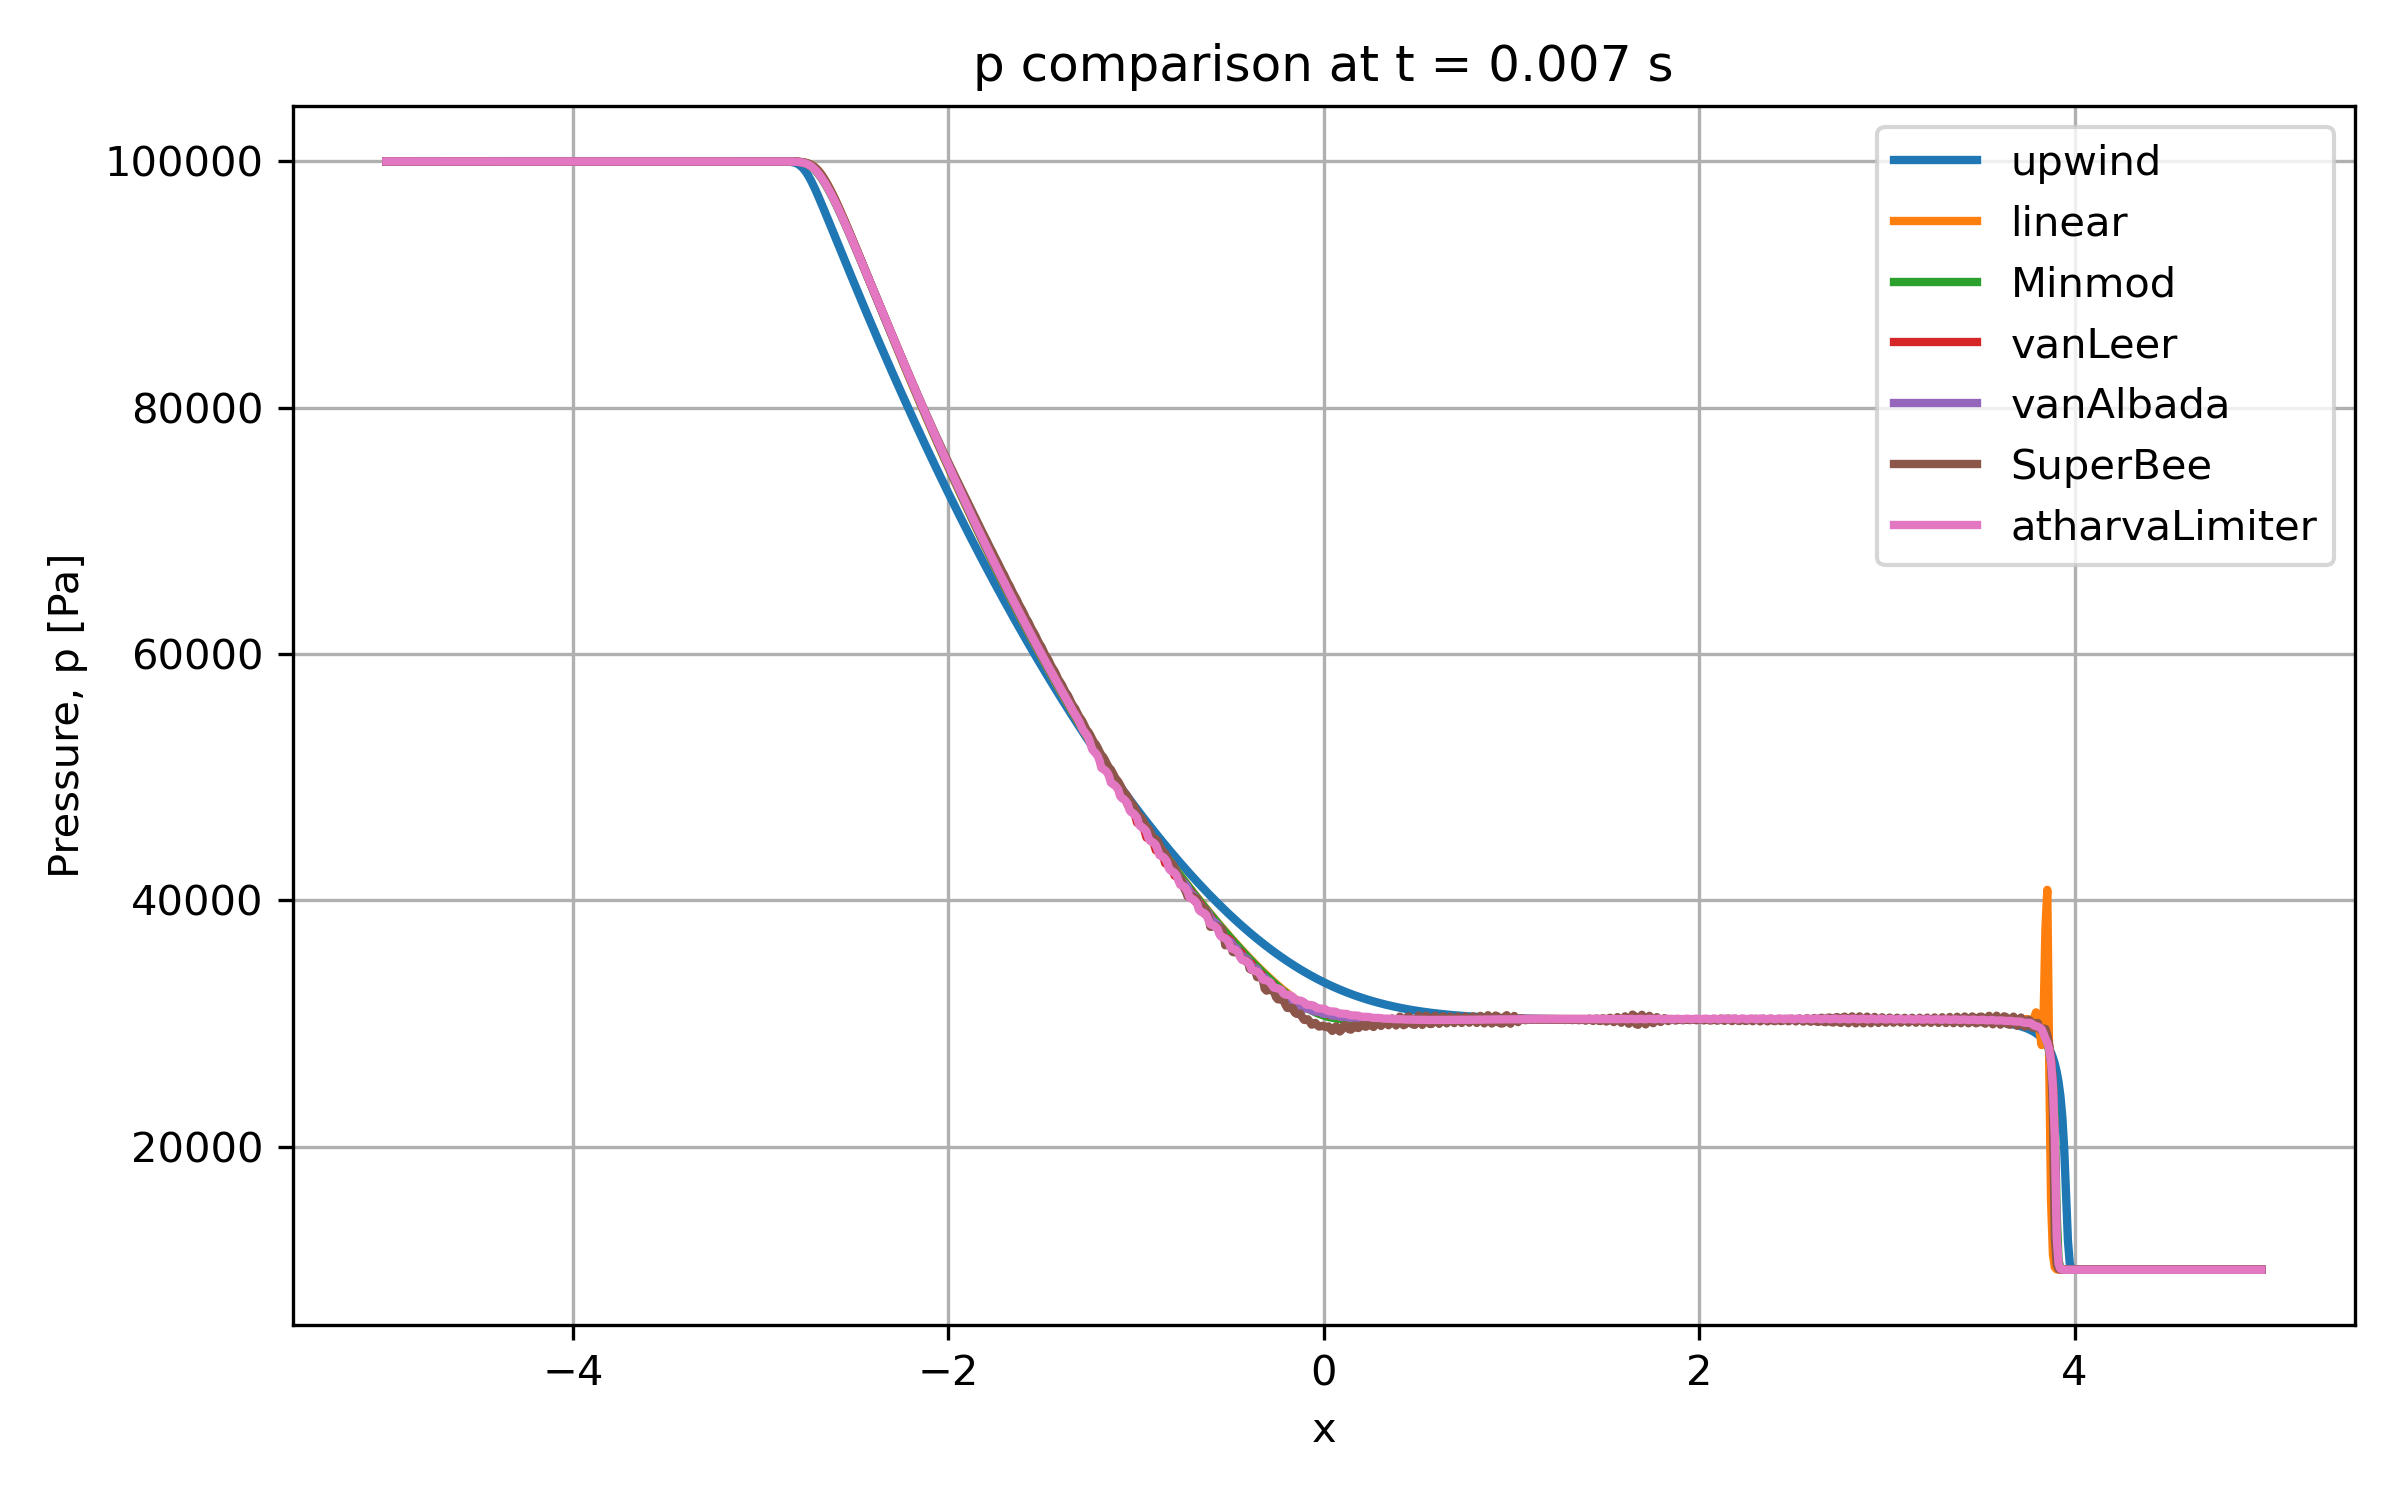
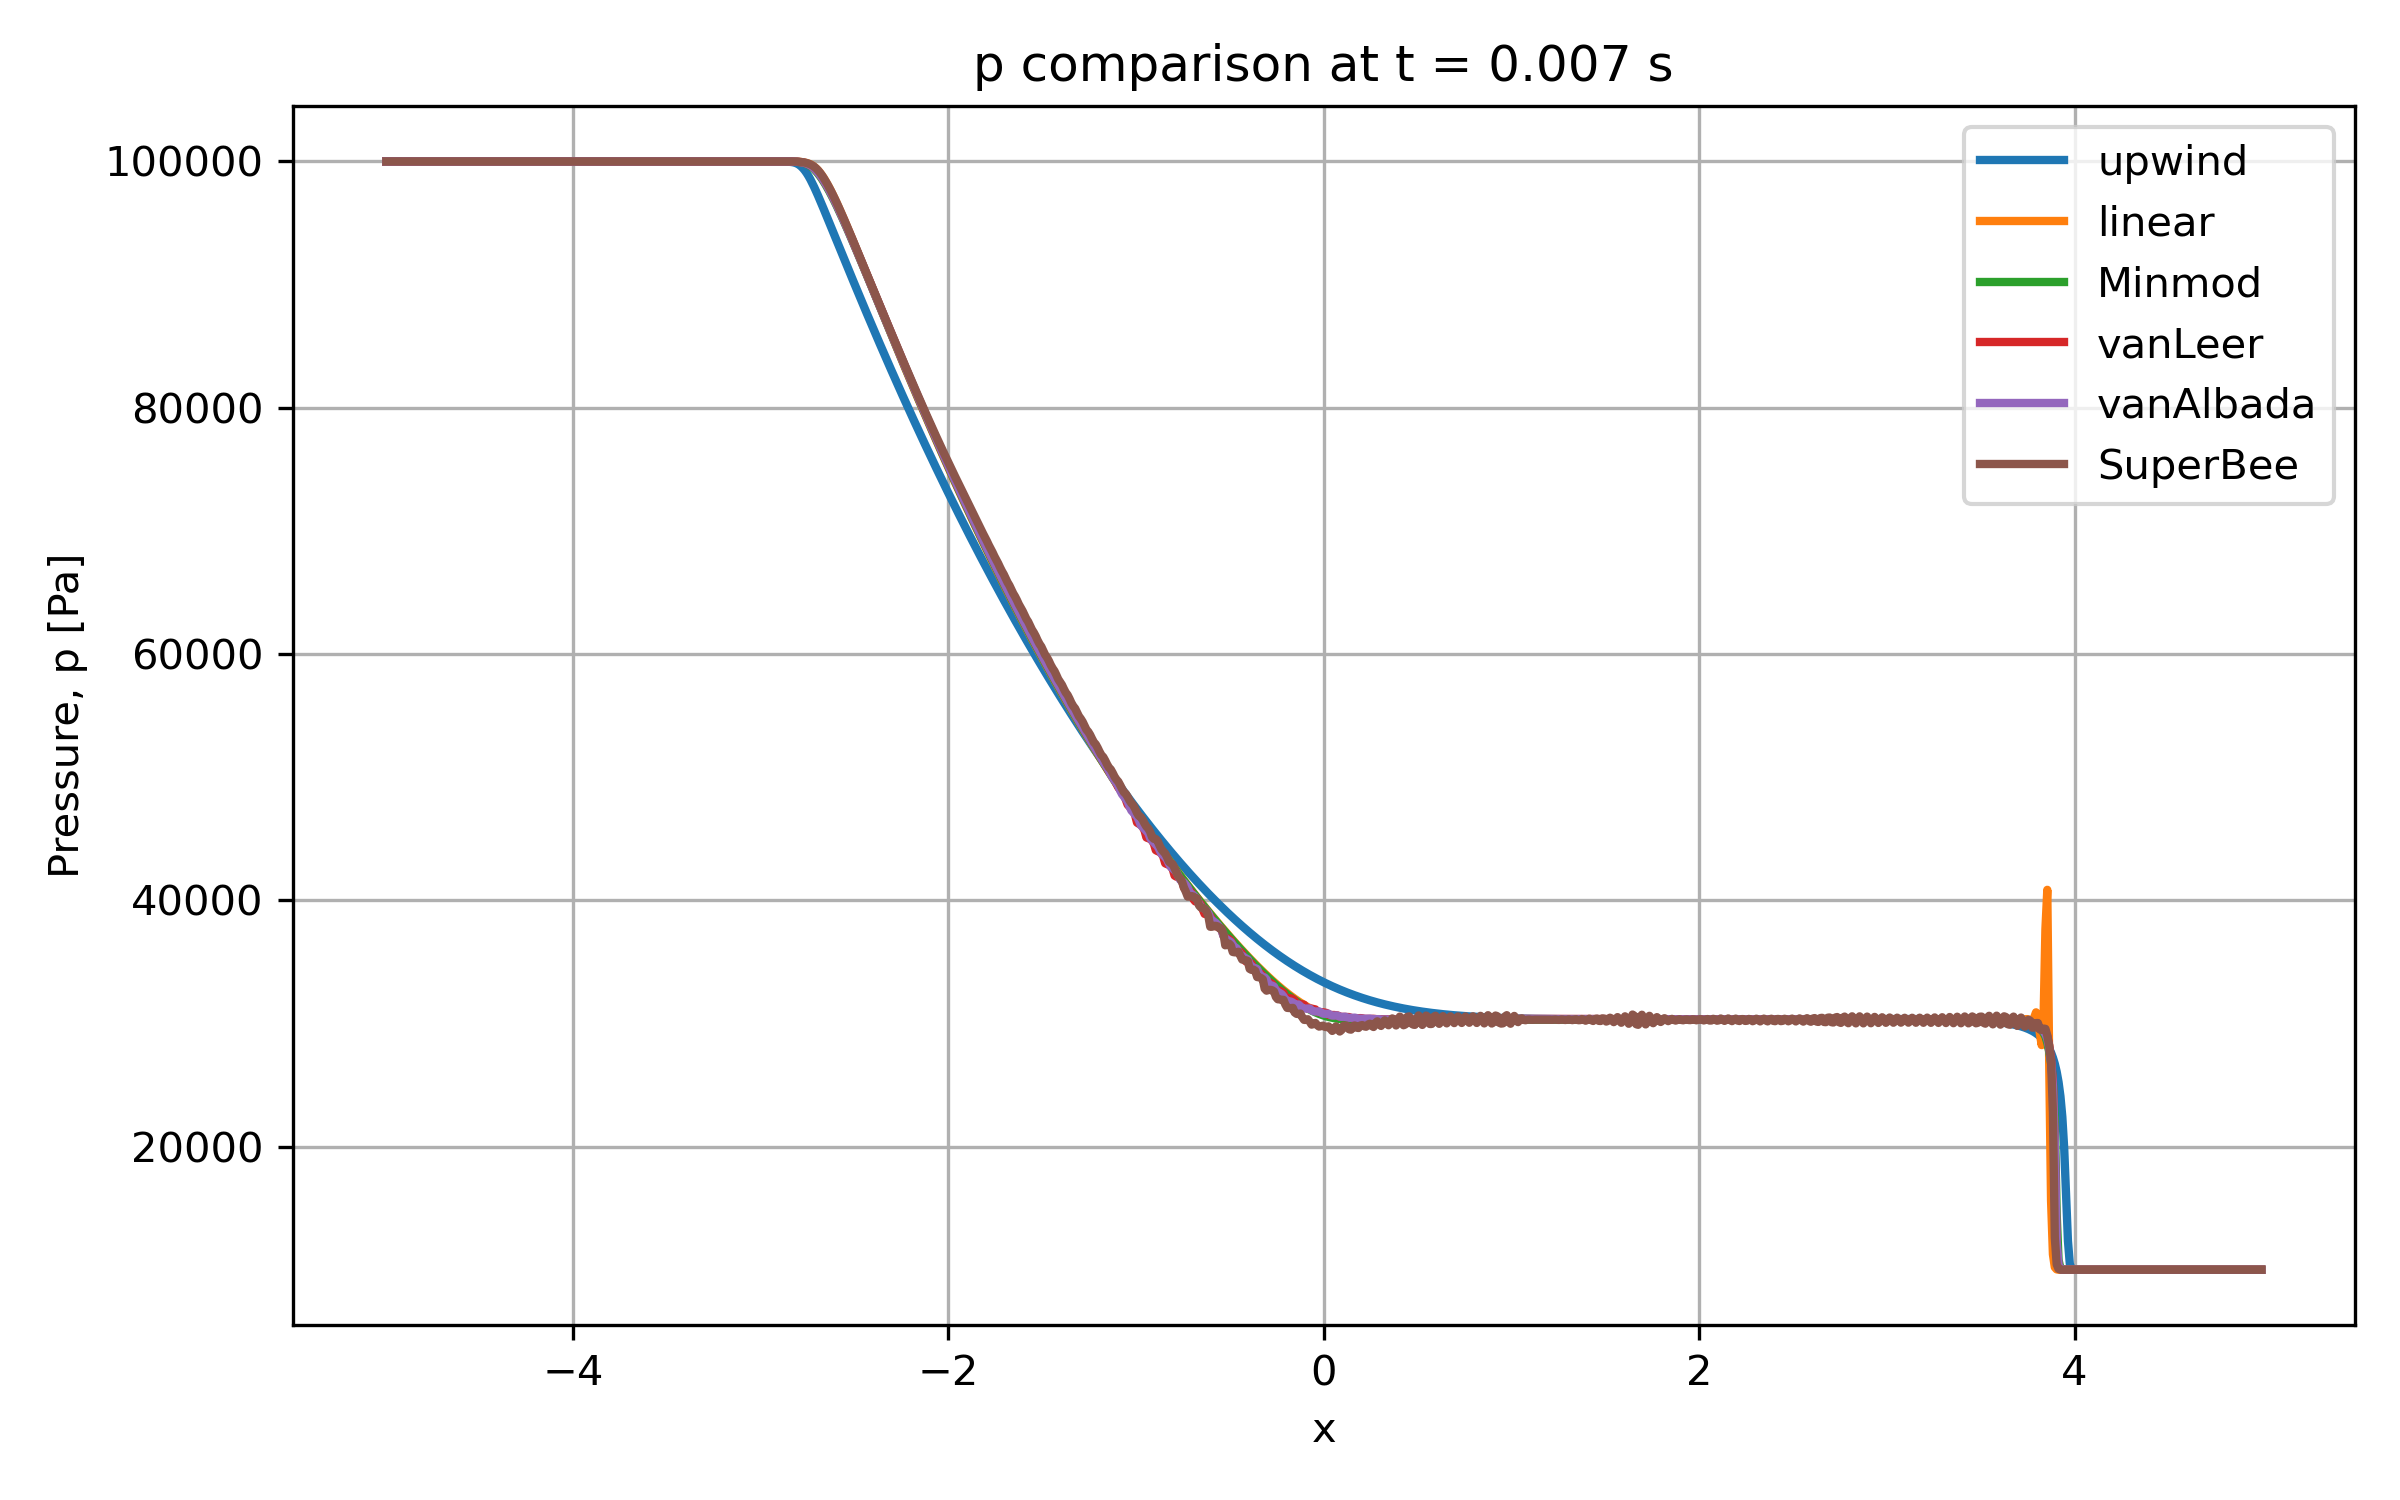
Refine limiter comparison study and project documentation

diff --git a/projects/05_OpenFOAM_Source_Code_Modification/analysis/python/compare_schemes.py b/projects/05_OpenFOAM_Source_Code_Modification/analysis/python/compare_schemes.py
@@ -10,7 +10,6 @@ cases = {
     "vanLeer": root / "vanLeer/postProcessing/sample/0.007/data.xy",
     "vanAlbada": root / "vanAlbada/postProcessing/sample/0.007/data.xy",
     "SuperBee": root / "SuperBee/postProcessing/sample/0.007/data.xy",
-    "atharvaLimiter": root / "atharvaLimiter/postProcessing/sample/0.007/data.xy",
 }
 
 out_dir = Path("results/figures/schemeComparison")

diff --git a/projects/05_OpenFOAM_Source_Code_Modification/README.md b/projects/05_OpenFOAM_Source_Code_Modification/README.md
@@ -92,13 +92,9 @@ and loaded at runtime through OpenFOAM's dynamic library system.
 
 The implemented limiter uses a generalized van Albada form:
 
-[
-\phi(r,\beta)
-=============
-
-\frac{r(r+\beta)}
-{r^2+\beta}
-]
+$$
+\phi(r,\beta)=\frac{r(r+\beta)}{r^2+\beta}
+$$
 
 where:
 
